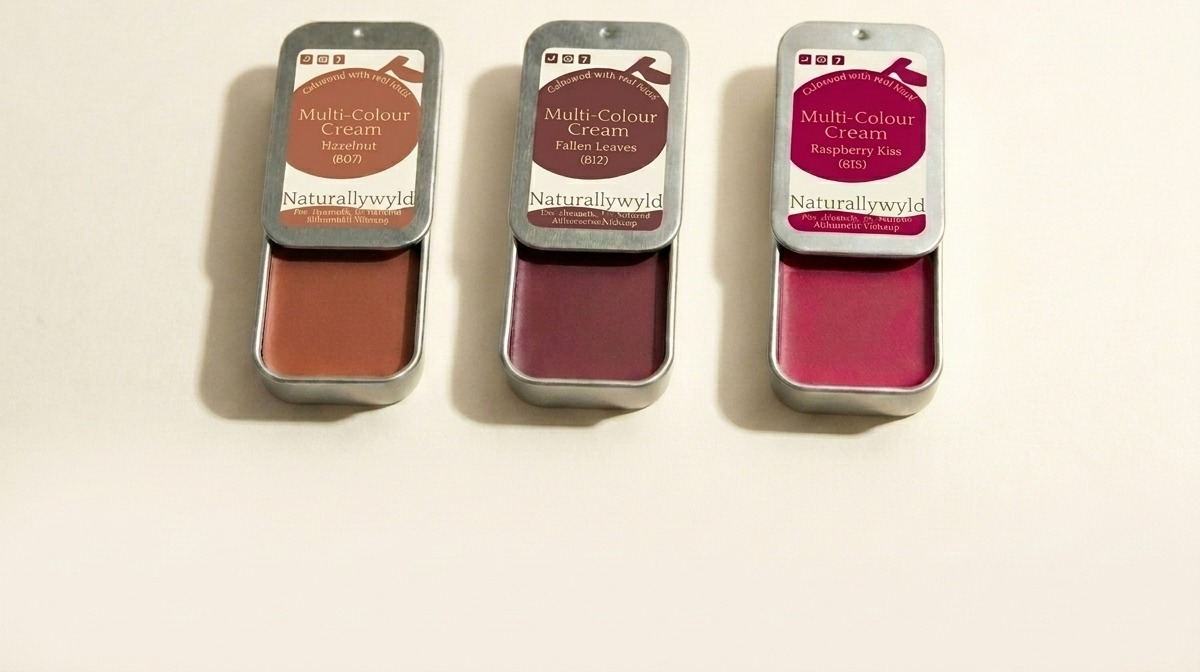
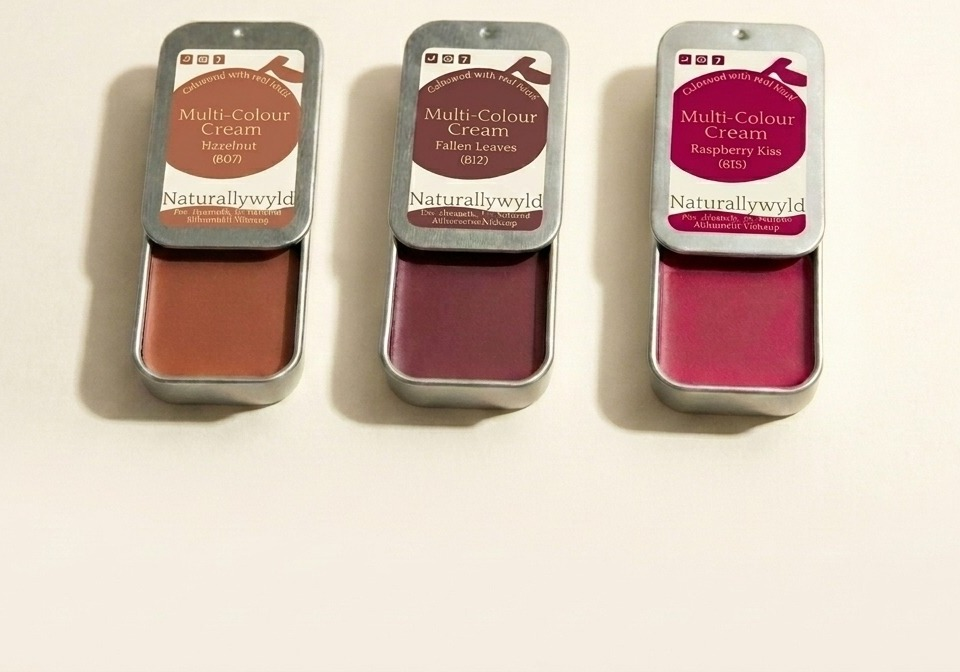
Crop 120px off each side — removes excess empty cream but PRESERVES tin shadows

Changed region(s): [[0.0625, 0.0312, 0.875, 0.6562]]

diff --git a/index.html b/index.html
@@ -3527,7 +3527,7 @@ html,body,div,span,applet,object,iframe,h1,h2,h3,h4,h5,h6,blockquote,pre,abbr,ac
   </div>
   <p class="lp6-clear-line2">Use on <b>lips, cheeks &amp; eyes</b>. Coloured with real fruit — no plastic, no toxins.</p>
   <p class="lp6-clear-line3"><b>$30 + free shipping</b> — worth $90.</p>
-</div></div></div></div> <div class="ecom-block ecom-core core__block elmspace ecom-nb9zizu2kol"><div class="ecom-element ecom-icon ecom-flex"><a class="ecom-icon--container ecom-in_flex" href="star"><svg xmlns="http://www.w3.org/2000/svg" viewBox="0 0 32 32" fill="currentColor"><path d="M 30.335938 12.546875 L 20.164063 11.472656 L 16 2.132813 L 11.835938 11.472656 L 1.664063 12.546875 L 9.261719 19.394531 L 7.140625 29.398438 L 16 24.289063 L 24.859375 29.398438 L 22.738281 19.394531 Z"></path></svg></a></div></div> <div class="ecom-block ecom-core core__block elmspace ecom-4j8ivoprcol"><div class="ecom-element ecom-icon ecom-flex"><a class="ecom-icon--container ecom-in_flex" href="star"><svg xmlns="http://www.w3.org/2000/svg" viewBox="0 0 32 32" fill="currentColor"><path d="M 30.335938 12.546875 L 20.164063 11.472656 L 16 2.132813 L 11.835938 11.472656 L 1.664063 12.546875 L 9.261719 19.394531 L 7.140625 29.398438 L 16 24.289063 L 24.859375 29.398438 L 22.738281 19.394531 Z"></path></svg></a></div></div> <div class="ecom-block ecom-core core__block elmspace ecom-1uy6wgoj6d3"><div class="ecom-element ecom-icon ecom-flex"><a class="ecom-icon--container ecom-in_flex" href="star"><svg xmlns="http://www.w3.org/2000/svg" viewBox="0 0 32 32" fill="currentColor"><path d="M 30.335938 12.546875 L 20.164063 11.472656 L 16 2.132813 L 11.835938 11.472656 L 1.664063 12.546875 L 9.261719 19.394531 L 7.140625 29.398438 L 16 24.289063 L 24.859375 29.398438 L 22.738281 19.394531 Z"></path></svg></a></div></div> <div class="ecom-block ecom-core core__block elmspace ecom-mh753qn29a"><div class="ecom-element ecom-icon ecom-flex"><a class="ecom-icon--container ecom-in_flex" href="star"><svg xmlns="http://www.w3.org/2000/svg" viewBox="0 0 32 32" fill="currentColor"><path d="M 30.335938 12.546875 L 20.164063 11.472656 L 16 2.132813 L 11.835938 11.472656 L 1.664063 12.546875 L 9.261719 19.394531 L 7.140625 29.398438 L 16 24.289063 L 24.859375 29.398438 L 22.738281 19.394531 Z"></path></svg></a></div></div> <div class="ecom-block ecom-core core__block elmspace ecom-mknvs2akmic"><div class="ecom-element ecom-icon ecom-flex"><a class="ecom-icon--container ecom-in_flex" href="star"><svg xmlns="http://www.w3.org/2000/svg" viewBox="0 0 32 32" fill="currentColor"><path d="M 30.335938 12.546875 L 20.164063 11.472656 L 16 2.132813 L 11.835938 11.472656 L 1.664063 12.546875 L 9.261719 19.394531 L 7.140625 29.398438 L 16 24.289063 L 24.859375 29.398438 L 22.738281 19.394531 Z"></path></svg></a></div></div> <div class="ecom-block ecom-core core__block ecom-c27amw4lv4"><div class="ecom__element ecom-element element__text ecom-type-deffault"><div class="text-content ecom-html has-drop-cap-view-framed"><span style="color: rgb(0, 0, 0); font-family: system-ui, -apple-system, &quot;Segoe UI&quot;, Roboto, Helvetica, Arial, sans-serif, &quot;Apple Color Emoji&quot;, &quot;Segoe UI Emoji&quot;; font-size: 14px; letter-spacing: normal;">Over 436 Five-Star Reviews!</span></div></div></div> <div class="ecom-block ecom-core core__block ecom-h2wht9yvv7l"><div class="ecom__element ecom-element-button ecom-button-default"><a class="ecom__element--button ecom-flex ecom-fl_center ecom-al_center" href="https://naturallywyld.ca/cart/46591897567489:1?checkout"><span class="ecom__element--button-icon-text">Try our tester pack now</span><span class="ecom-button-icon ecom__element--button-icon"><svg xmlns="http://www.w3.org/2000/svg" viewBox="0 0 32 32" fill="currentColor"><path d="M 12.96875 4.28125 L 11.53125 5.71875 L 21.8125 16 L 11.53125 26.28125 L 12.96875 27.71875 L 23.96875 16.71875 L 24.65625 16 L 23.96875 15.28125 Z"></path></svg></span></a></div></div> <div class="ecom-block ecom-core core__block ecom-9wsj04gi9a6"><div class="ecom__element ecom-element element__text ecom-type-deffault"><div class="text-content ecom-html has-drop-cap-view-framed">⬆ Click here to get yours ⬆&nbsp;</div></div></div> </div></div></div></div> <div class="ecom-column ecom-core core__column--last ecom-7ggm6hhfod"><div class="core__column--wrapper" id="ecom-7ggm6hhfod"><div class="ecom-column__overlay"><div class="ecom-overlay"></div></div><div class="core__blocks" index="1"><div class="core__blocks--body"><div class="ecom-block ecom-core core__block elmspace ecom-o4t6ai3zw1o"><div class="ecom-row ecom-core core__block ecom-9bw6bg7zmir" data-id="ecom-9bw6bg7zmir" style="z-index: inherit;"><div class="core__row--columns"><div class="ecom-column ecom-core core__column--first core__column--last ecom-w6fb2h3x14j"><div class="core__column--wrapper" id="ecom-w6fb2h3x14j"><div class="ecom-column__overlay"><div class="ecom-overlay"></div></div><div class="core__blocks" index="0"><div class="core__blocks--body"><div class="ecom-block ecom-core core__block elmspace ecom-oit8fygid0n hide-on-desktop hide-on-tablet"><div class="ecom__element element__heading ecom-element ecom-html ecom-type-deffault"><h1 class="ecom__heading ecom-db"><div>Everything You Wanted in Natural Makeup—Finally Done Right.</div></h1></div></div> <div class="lp6-cursive-headline">"It's the best deal ever"<span class="lp6-hearts">💕💕</span></div><div class="ecom-block ecom-core core__block ecom-djz4481vay"><div class="ecom-element ecom-base-image"><figure><div class="ecom-container-image ecom-image-align"><div class="ecom-image-content-position ecom-image-default ecom-base-image-container-overlay" style=""><picture class="ecom-image-picture"><source media="(max-width: 767px)" srcset="hero-photoreal.jpg?v=14"><img class="" loading="lazy" fetchpriority="low" src="hero-photoreal.jpg?v=14" srcset="hero-photoreal.jpg?v=14 640w, hero-photoreal.jpg?v=14&amp;width=600&amp;crop=center 600w" sizes="(max-width: 600px) 600px, 640px" alt="Multi_colour_cream_bundle_Tester_pack_landing_page_348a39d0-6d02-4bd0-a25a-a591a6f6b55a" width="640" height="640"></picture></div></div></figure></div><div class="lp6-on-image-overlay"><span class="lp6-on-image-overlay-pill">$90 VALUE · PLUS FREE SHIPPING</span></div><div class="lp6-price-block-overlay">
+</div></div></div></div> <div class="ecom-block ecom-core core__block elmspace ecom-nb9zizu2kol"><div class="ecom-element ecom-icon ecom-flex"><a class="ecom-icon--container ecom-in_flex" href="star"><svg xmlns="http://www.w3.org/2000/svg" viewBox="0 0 32 32" fill="currentColor"><path d="M 30.335938 12.546875 L 20.164063 11.472656 L 16 2.132813 L 11.835938 11.472656 L 1.664063 12.546875 L 9.261719 19.394531 L 7.140625 29.398438 L 16 24.289063 L 24.859375 29.398438 L 22.738281 19.394531 Z"></path></svg></a></div></div> <div class="ecom-block ecom-core core__block elmspace ecom-4j8ivoprcol"><div class="ecom-element ecom-icon ecom-flex"><a class="ecom-icon--container ecom-in_flex" href="star"><svg xmlns="http://www.w3.org/2000/svg" viewBox="0 0 32 32" fill="currentColor"><path d="M 30.335938 12.546875 L 20.164063 11.472656 L 16 2.132813 L 11.835938 11.472656 L 1.664063 12.546875 L 9.261719 19.394531 L 7.140625 29.398438 L 16 24.289063 L 24.859375 29.398438 L 22.738281 19.394531 Z"></path></svg></a></div></div> <div class="ecom-block ecom-core core__block elmspace ecom-1uy6wgoj6d3"><div class="ecom-element ecom-icon ecom-flex"><a class="ecom-icon--container ecom-in_flex" href="star"><svg xmlns="http://www.w3.org/2000/svg" viewBox="0 0 32 32" fill="currentColor"><path d="M 30.335938 12.546875 L 20.164063 11.472656 L 16 2.132813 L 11.835938 11.472656 L 1.664063 12.546875 L 9.261719 19.394531 L 7.140625 29.398438 L 16 24.289063 L 24.859375 29.398438 L 22.738281 19.394531 Z"></path></svg></a></div></div> <div class="ecom-block ecom-core core__block elmspace ecom-mh753qn29a"><div class="ecom-element ecom-icon ecom-flex"><a class="ecom-icon--container ecom-in_flex" href="star"><svg xmlns="http://www.w3.org/2000/svg" viewBox="0 0 32 32" fill="currentColor"><path d="M 30.335938 12.546875 L 20.164063 11.472656 L 16 2.132813 L 11.835938 11.472656 L 1.664063 12.546875 L 9.261719 19.394531 L 7.140625 29.398438 L 16 24.289063 L 24.859375 29.398438 L 22.738281 19.394531 Z"></path></svg></a></div></div> <div class="ecom-block ecom-core core__block elmspace ecom-mknvs2akmic"><div class="ecom-element ecom-icon ecom-flex"><a class="ecom-icon--container ecom-in_flex" href="star"><svg xmlns="http://www.w3.org/2000/svg" viewBox="0 0 32 32" fill="currentColor"><path d="M 30.335938 12.546875 L 20.164063 11.472656 L 16 2.132813 L 11.835938 11.472656 L 1.664063 12.546875 L 9.261719 19.394531 L 7.140625 29.398438 L 16 24.289063 L 24.859375 29.398438 L 22.738281 19.394531 Z"></path></svg></a></div></div> <div class="ecom-block ecom-core core__block ecom-c27amw4lv4"><div class="ecom__element ecom-element element__text ecom-type-deffault"><div class="text-content ecom-html has-drop-cap-view-framed"><span style="color: rgb(0, 0, 0); font-family: system-ui, -apple-system, &quot;Segoe UI&quot;, Roboto, Helvetica, Arial, sans-serif, &quot;Apple Color Emoji&quot;, &quot;Segoe UI Emoji&quot;; font-size: 14px; letter-spacing: normal;">Over 436 Five-Star Reviews!</span></div></div></div> <div class="ecom-block ecom-core core__block ecom-h2wht9yvv7l"><div class="ecom__element ecom-element-button ecom-button-default"><a class="ecom__element--button ecom-flex ecom-fl_center ecom-al_center" href="https://naturallywyld.ca/cart/46591897567489:1?checkout"><span class="ecom__element--button-icon-text">Try our tester pack now</span><span class="ecom-button-icon ecom__element--button-icon"><svg xmlns="http://www.w3.org/2000/svg" viewBox="0 0 32 32" fill="currentColor"><path d="M 12.96875 4.28125 L 11.53125 5.71875 L 21.8125 16 L 11.53125 26.28125 L 12.96875 27.71875 L 23.96875 16.71875 L 24.65625 16 L 23.96875 15.28125 Z"></path></svg></span></a></div></div> <div class="ecom-block ecom-core core__block ecom-9wsj04gi9a6"><div class="ecom__element ecom-element element__text ecom-type-deffault"><div class="text-content ecom-html has-drop-cap-view-framed">⬆ Click here to get yours ⬆&nbsp;</div></div></div> </div></div></div></div> <div class="ecom-column ecom-core core__column--last ecom-7ggm6hhfod"><div class="core__column--wrapper" id="ecom-7ggm6hhfod"><div class="ecom-column__overlay"><div class="ecom-overlay"></div></div><div class="core__blocks" index="1"><div class="core__blocks--body"><div class="ecom-block ecom-core core__block elmspace ecom-o4t6ai3zw1o"><div class="ecom-row ecom-core core__block ecom-9bw6bg7zmir" data-id="ecom-9bw6bg7zmir" style="z-index: inherit;"><div class="core__row--columns"><div class="ecom-column ecom-core core__column--first core__column--last ecom-w6fb2h3x14j"><div class="core__column--wrapper" id="ecom-w6fb2h3x14j"><div class="ecom-column__overlay"><div class="ecom-overlay"></div></div><div class="core__blocks" index="0"><div class="core__blocks--body"><div class="ecom-block ecom-core core__block elmspace ecom-oit8fygid0n hide-on-desktop hide-on-tablet"><div class="ecom__element element__heading ecom-element ecom-html ecom-type-deffault"><h1 class="ecom__heading ecom-db"><div>Everything You Wanted in Natural Makeup—Finally Done Right.</div></h1></div></div> <div class="lp6-cursive-headline">"It's the best deal ever"<span class="lp6-hearts">💕💕</span></div><div class="ecom-block ecom-core core__block ecom-djz4481vay"><div class="ecom-element ecom-base-image"><figure><div class="ecom-container-image ecom-image-align"><div class="ecom-image-content-position ecom-image-default ecom-base-image-container-overlay" style=""><picture class="ecom-image-picture"><source media="(max-width: 767px)" srcset="hero-photoreal.jpg?v=15"><img class="" loading="lazy" fetchpriority="low" src="hero-photoreal.jpg?v=15" srcset="hero-photoreal.jpg?v=15 640w, hero-photoreal.jpg?v=15&amp;width=600&amp;crop=center 600w" sizes="(max-width: 600px) 600px, 640px" alt="Multi_colour_cream_bundle_Tester_pack_landing_page_348a39d0-6d02-4bd0-a25a-a591a6f6b55a" width="640" height="640"></picture></div></div></figure></div><div class="lp6-on-image-overlay"><span class="lp6-on-image-overlay-pill">$90 VALUE · PLUS FREE SHIPPING</span></div><div class="lp6-price-block-overlay">
   <span class="lp6-pb-now">$30</span>
   <span class="lp6-pb-was">$90 value</span>
   <span class="lp6-pb-save">SAVE $60</span>